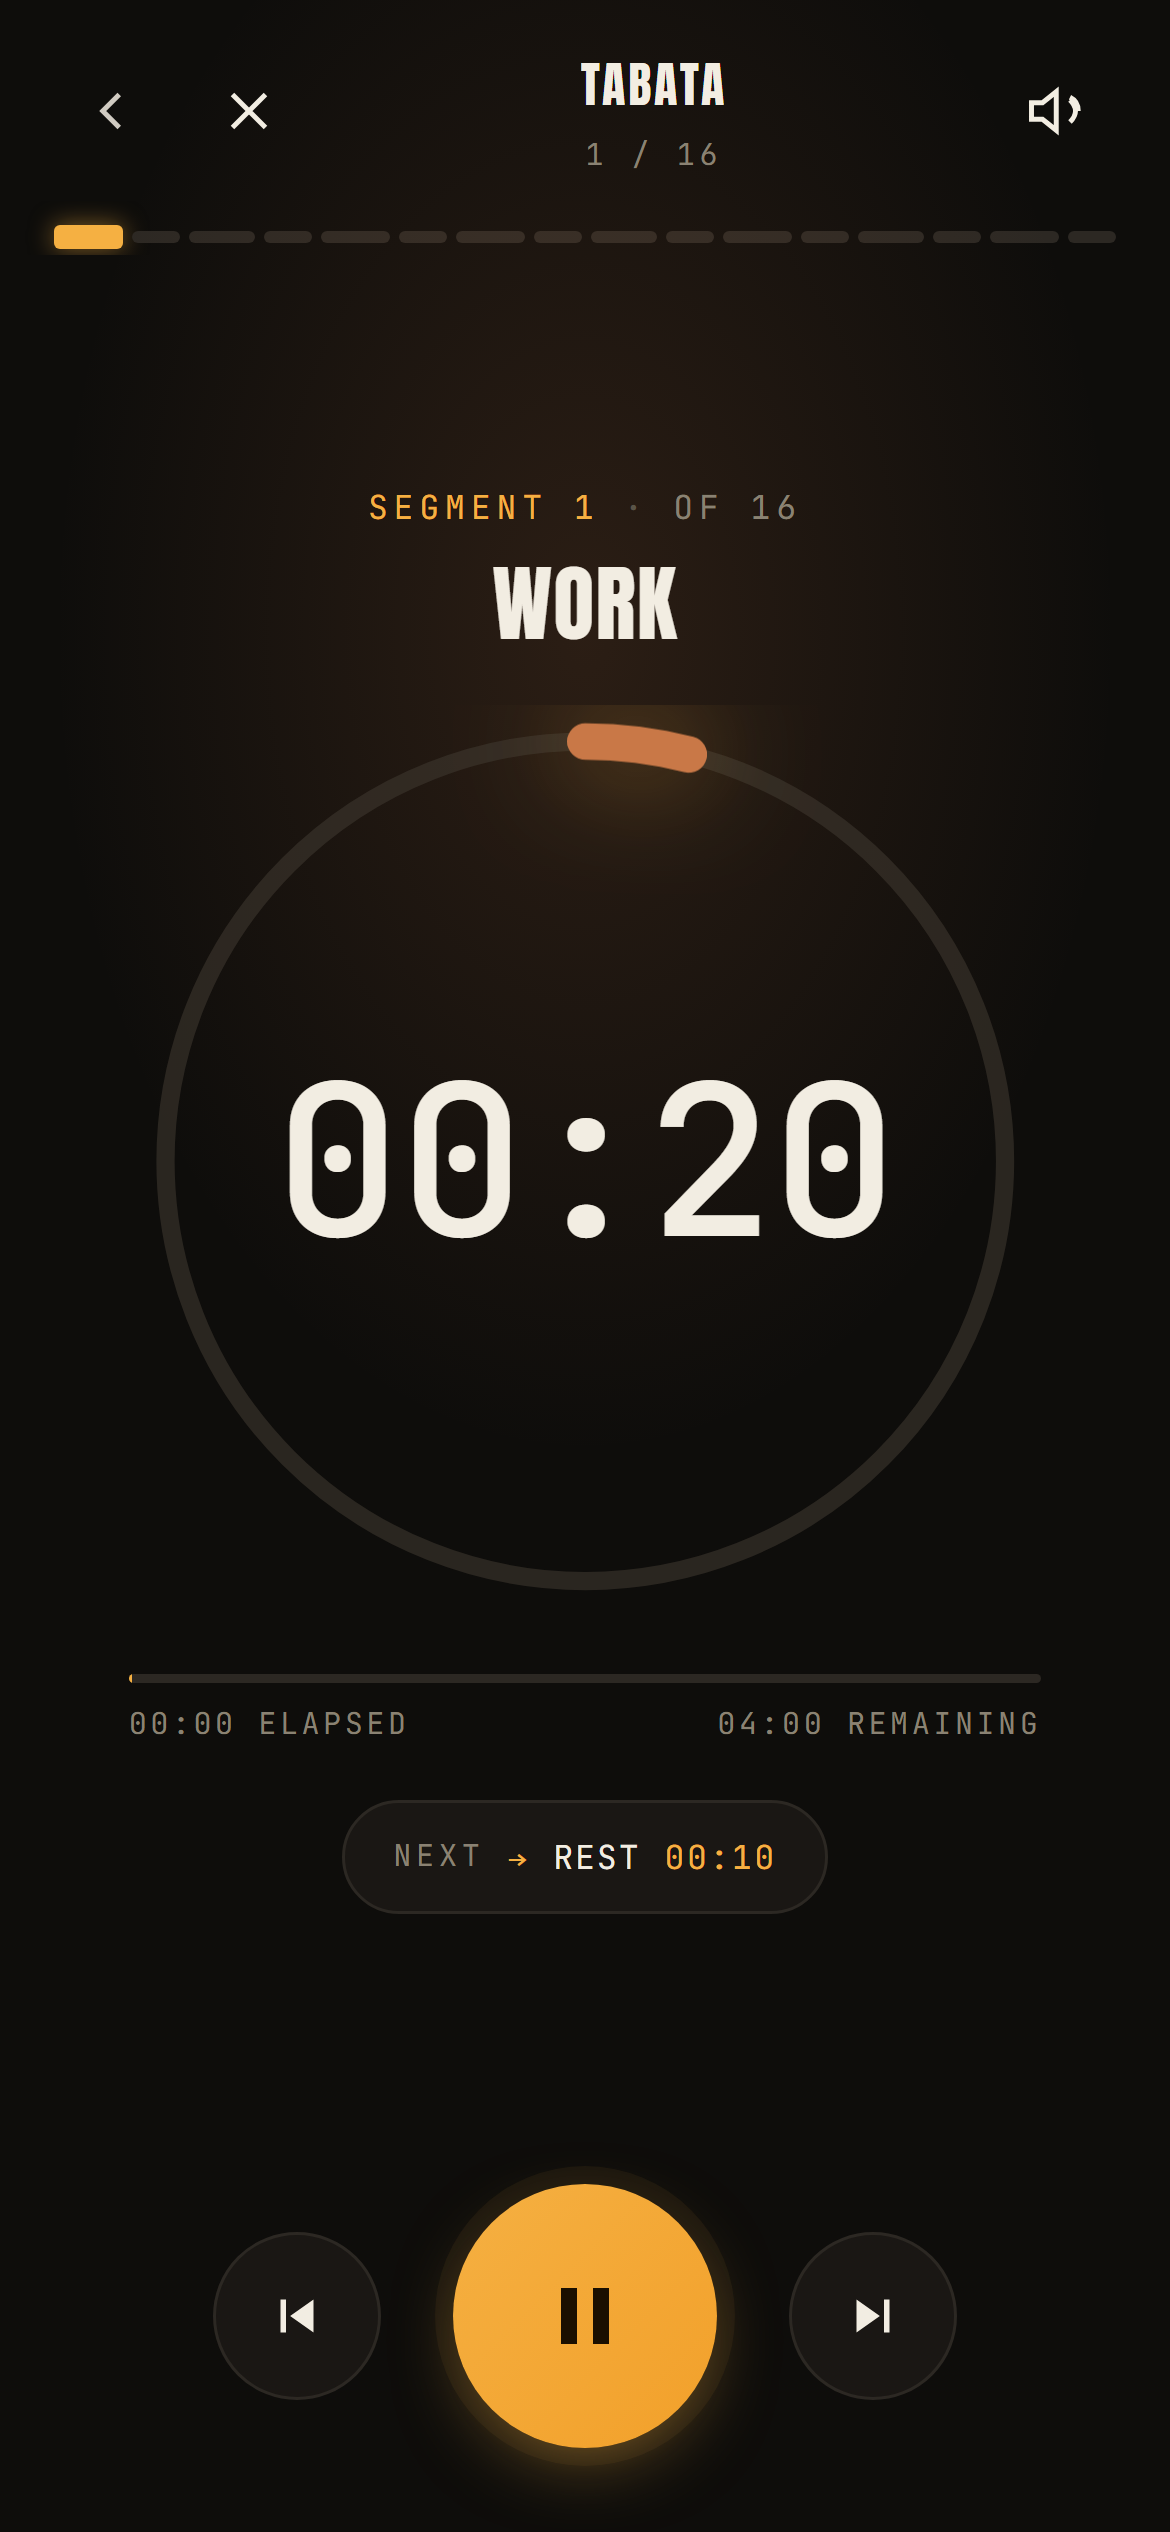
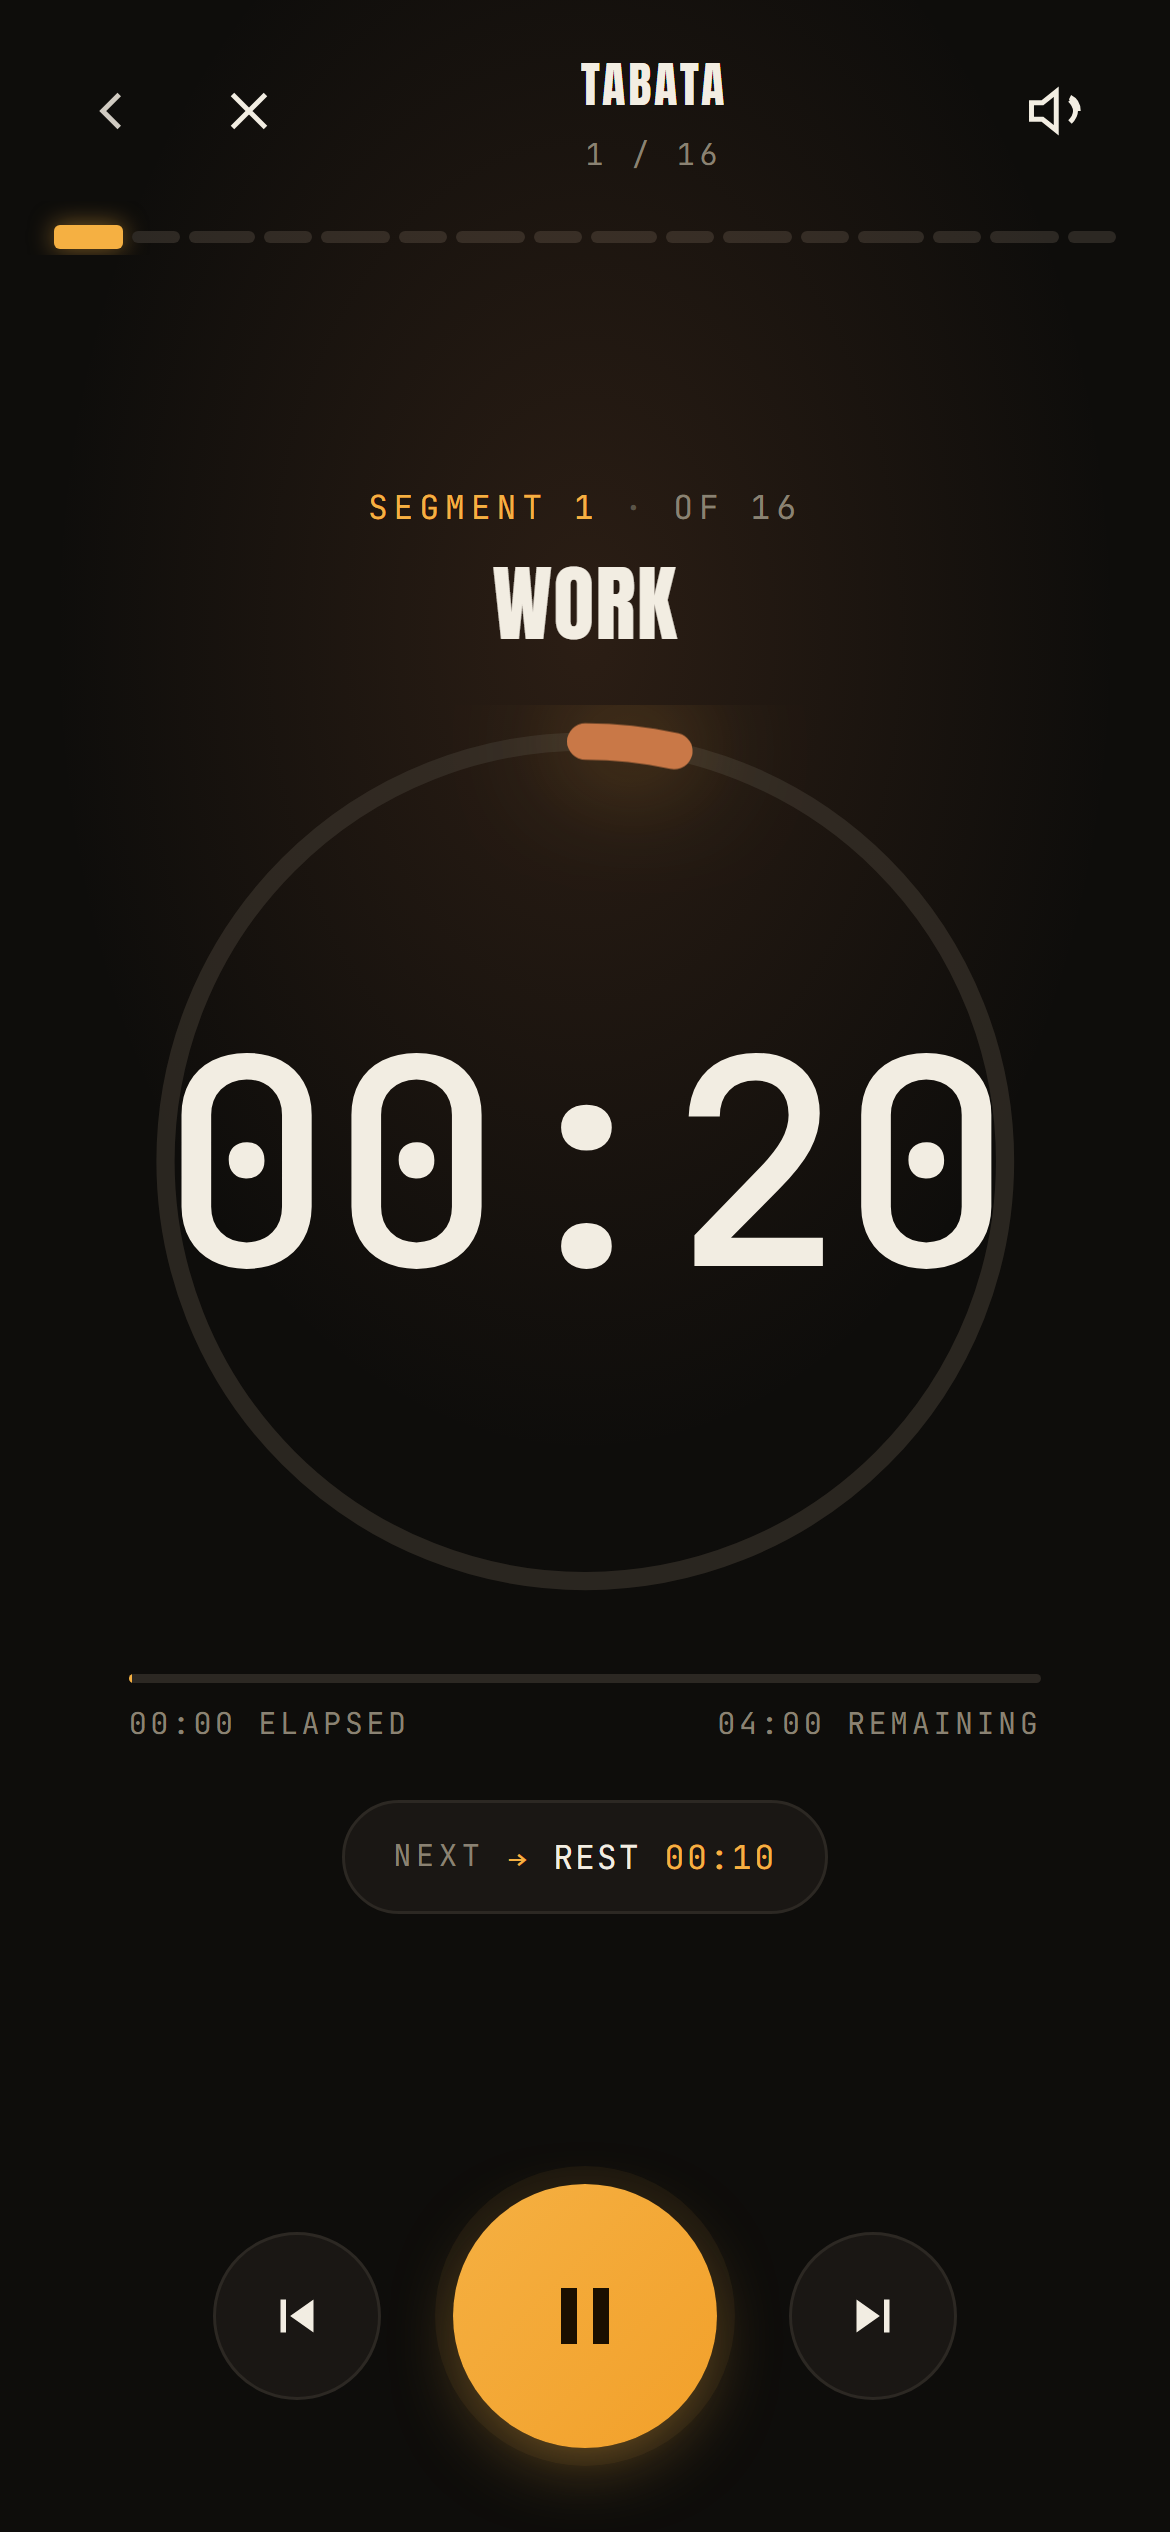
Fix the run clock overflowing once a chain passes an hour
Reported with a 2h11m segment: the countdown ran off the right edge of
the screen. Two separate causes, both fixed.

1) SIZE. font-size was clamp(56px, 18vw, 96px), tuned for "MM:SS". The
   moment a segment crosses an hour, fmt() switches to "HH:MM:SS" -- 8
   characters instead of 5 -- and nothing accounted for that. The size
   now derives from the character count: UI._setClockText publishes
   --clock-chars whenever the LENGTH changes (not every frame; it runs
   per animation frame and setting a custom property invalidates style),
   and CSS divides the available width by chars x advance. 0.55 is this
   monospace face's measured per-character advance (0.5398em) rounded UP,
   so the result under-shoots rather than overflows. Width is the APP
   COLUMN, not the viewport: .app is capped at 560px, so plain 100vw
   would overflow it in a wide window.

   Side effect, and in line with the request to use the available space:
   "MM:SS" is now larger than before (it hits the 96px cap rather than
   18vw), because the old formula left space unused.

2) CENTRING. Even correctly sized, the clock was a grid item inside a
   320px ring track, and could be wider than it. Chrome resolves overflow
   on a centre-aligned grid item with *safe* alignment -- it falls back to
   start -- so the text spilled to the right instead of overflowing
   evenly. Measured at 768px: box left 224, right 690, against a column
   ending at 664. The clock is now absolutely centred on the wrap, so it
[…]

Changed region(s): [[0.1538, 0.4056, 0.5231, 0.4992], [0.5538, 0.4056, 0.8615, 0.4992], [0.5846, 0.2808, 0.6154, 0.312]]

diff --git a/css/styles.css b/css/styles.css
@@ -1784,12 +1784,45 @@ body.is-reordering-chains .chain-card:hover { border-color: var(--rule); backgro
   font-family: var(--f-mono);
   font-variant-numeric: tabular-nums;
   font-weight: 500;
-  font-size: clamp(56px, 18vw, 96px);
+  /* v1.4.17 — size the clock from how many characters it has to show.
+     The old clamp() was tuned for "MM:SS"; the moment a chain ran past
+     an hour the string became "HH:MM:SS" and ran off the screen.
+
+     --clock-chars is set by UI._setClockText whenever the length
+     changes. 0.55 is this monospace face's measured per-character
+     advance (0.5398em) rounded UP, so the result under-shoots the
+     available width rather than overflowing it. That width is the APP
+     COLUMN, not the viewport: .app is capped at 560px, so plain 100vw
+     would overflow it in a wide window. */
+  --clock-chars: 5;
+  --clock-gutter: 20px;
+  --clock-advance: 0.55;
+  font-size: min(
+    96px,
+    calc((min(100vw, 560px) - 2 * var(--clock-gutter)) / (var(--clock-chars) * var(--clock-advance)))
+  );
   letter-spacing: -0.01em;
   color: var(--ink);
   line-height: 1;
-  position: relative;
+  /* Absolutely centred on the ring rather than laid out inside it.
+     As a grid item the clock could be WIDER than the 320px ring track,
+     and Chrome resolves overflow on a centred grid item with *safe*
+     alignment — it falls back to start, so the text spilled off the
+     right edge instead of overflowing evenly. Centring on the wrap
+     keeps it symmetric at any width; the wrap centre is the column
+     centre. NOTE: clockPulse must carry this translate too, since a
+     keyframe transform would otherwise replace it. */
+  position: absolute;
+  left: 50%;
+  top: 50%;
+  transform: translate(-50%, -50%);
+  width: max-content;
   z-index: 1;
+  /* Stay on one line and stay centred even if some future format is
+     wider than the formula anticipated. */
+  white-space: nowrap;
+  text-align: center;
+  max-width: calc(min(100vw, 560px) - 2 * var(--clock-gutter));
 }
 .is-warning .run-clock { color: var(--warn); animation: clockPulse 0.95s ease-in-out infinite; }
 /* v1.4.11 — inline prestart: the 3-2-1 renders in the clock itself
@@ -1838,8 +1871,11 @@ body.is-reordering-chains .chain-card:hover { border-color: var(--rule); backgro
    same track, just without the inherited "Default" slot. */
 .cue-pill.is-binary { grid-template-columns: 1fr 1fr; }
 @keyframes clockPulse {
-  0%, 100% { transform: scale(1); }
-  50%      { transform: scale(1.04); }
+  /* Includes the centring translate: a transform here REPLACES the
+     rule-level one, which would otherwise knock the clock off centre
+     for the whole animation. */
+  0%, 100% { transform: translate(-50%, -50%) scale(1); }
+  50%      { transform: translate(-50%, -50%) scale(1.04); }
 }
 
 .run-progress {

diff --git a/js/app.js b/js/app.js
@@ -3161,7 +3161,7 @@ const UI = {
     document.getElementById('run-segment-tag').textContent  = 'Segment 1';
     document.getElementById('run-segment-of').textContent   = `of ${segments.length}`;
     document.getElementById('run-chain-pos').textContent    = `1 / ${segments.length}`;
-    document.getElementById('run-clock').textContent        = fmt(seg0.duration);
+    UI._setClockText(fmt(seg0.duration));
     const ring = document.getElementById('run-ring-fill');
     ring.style.stroke = colorHex(seg0.color);
     // Reset the ring to empty — when another chain is running its last
@@ -3240,7 +3240,7 @@ const UI = {
     if (UI.prestartYielded) return;
     const clock = document.getElementById('run-clock');
     clock.classList.add('is-prestart');
-    clock.textContent = n;
+    UI._setClockText(n);
     document.getElementById('run-segment-tag').textContent = 'Get ready';
     document.getElementById('run-segment-of').textContent  = '';
   },
@@ -4211,8 +4211,24 @@ const UI = {
           ? `${run.chain?.name || 'Chain'} complete`
           : `${seg?.name || 'Segment'} done`;
       }
-      const clock = document.getElementById('run-clock');
-      if (clock) clock.textContent = fmt(0);
+      UI._setClockText(fmt(0));
+    }
+  },
+
+  // v1.4.17 — single place that writes the big clock. Also tells CSS how
+  // many characters it now has to fit, so a chain that runs past an hour
+  // ("HH:MM:SS") shrinks to fit instead of running off the screen. Only
+  // touched when the LENGTH changes: this is called every animation
+  // frame, and setting a custom property invalidates style on each write.
+  _clockChars: -1,
+  _setClockText(text) {
+    const el = document.getElementById('run-clock');
+    if (!el) return;
+    const str = String(text);
+    el.textContent = str;
+    if (str.length !== UI._clockChars) {
+      UI._clockChars = str.length;
+      el.style.setProperty('--clock-chars', String(Math.max(1, str.length)));
     }
   },
 
@@ -4474,7 +4490,7 @@ const UI = {
     // the tick, making the sound feel like it's chasing the visual.
     // The notification path uses ceiling for both the displayed remaining
     // and the tick trigger, so we mirror that here for parity.
-    document.getElementById('run-clock').textContent = fmt(Math.ceil(r));
+    UI._setClockText(fmt(Math.ceil(r)));
 
     // ring (use inline style — CSS class values otherwise override presentation attrs)
     const ring = document.getElementById('run-ring-fill');
